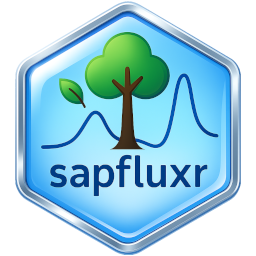
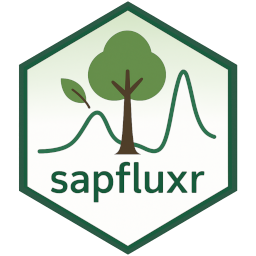
Aesthetic changes

diff --git a/README.md b/README.md
@@ -1,4 +1,4 @@
-# Shiny Sap Flow Analyser  <img src="www/sapfluxR.png" align="right" width=139 height=139 alt="" />
+# Shiny Sap Flow Analyser  <img src="www/shiny_sapfluxr.png" align="right" width=139 height=139 alt="" />
 
 <!-- badges: start -->
 [![Lifecycle: experimental](https://img.shields.io/badge/lifecycle-experimental-orange.svg)](https://lifecycle.r-lib.org/articles/stages.html#experimental)
